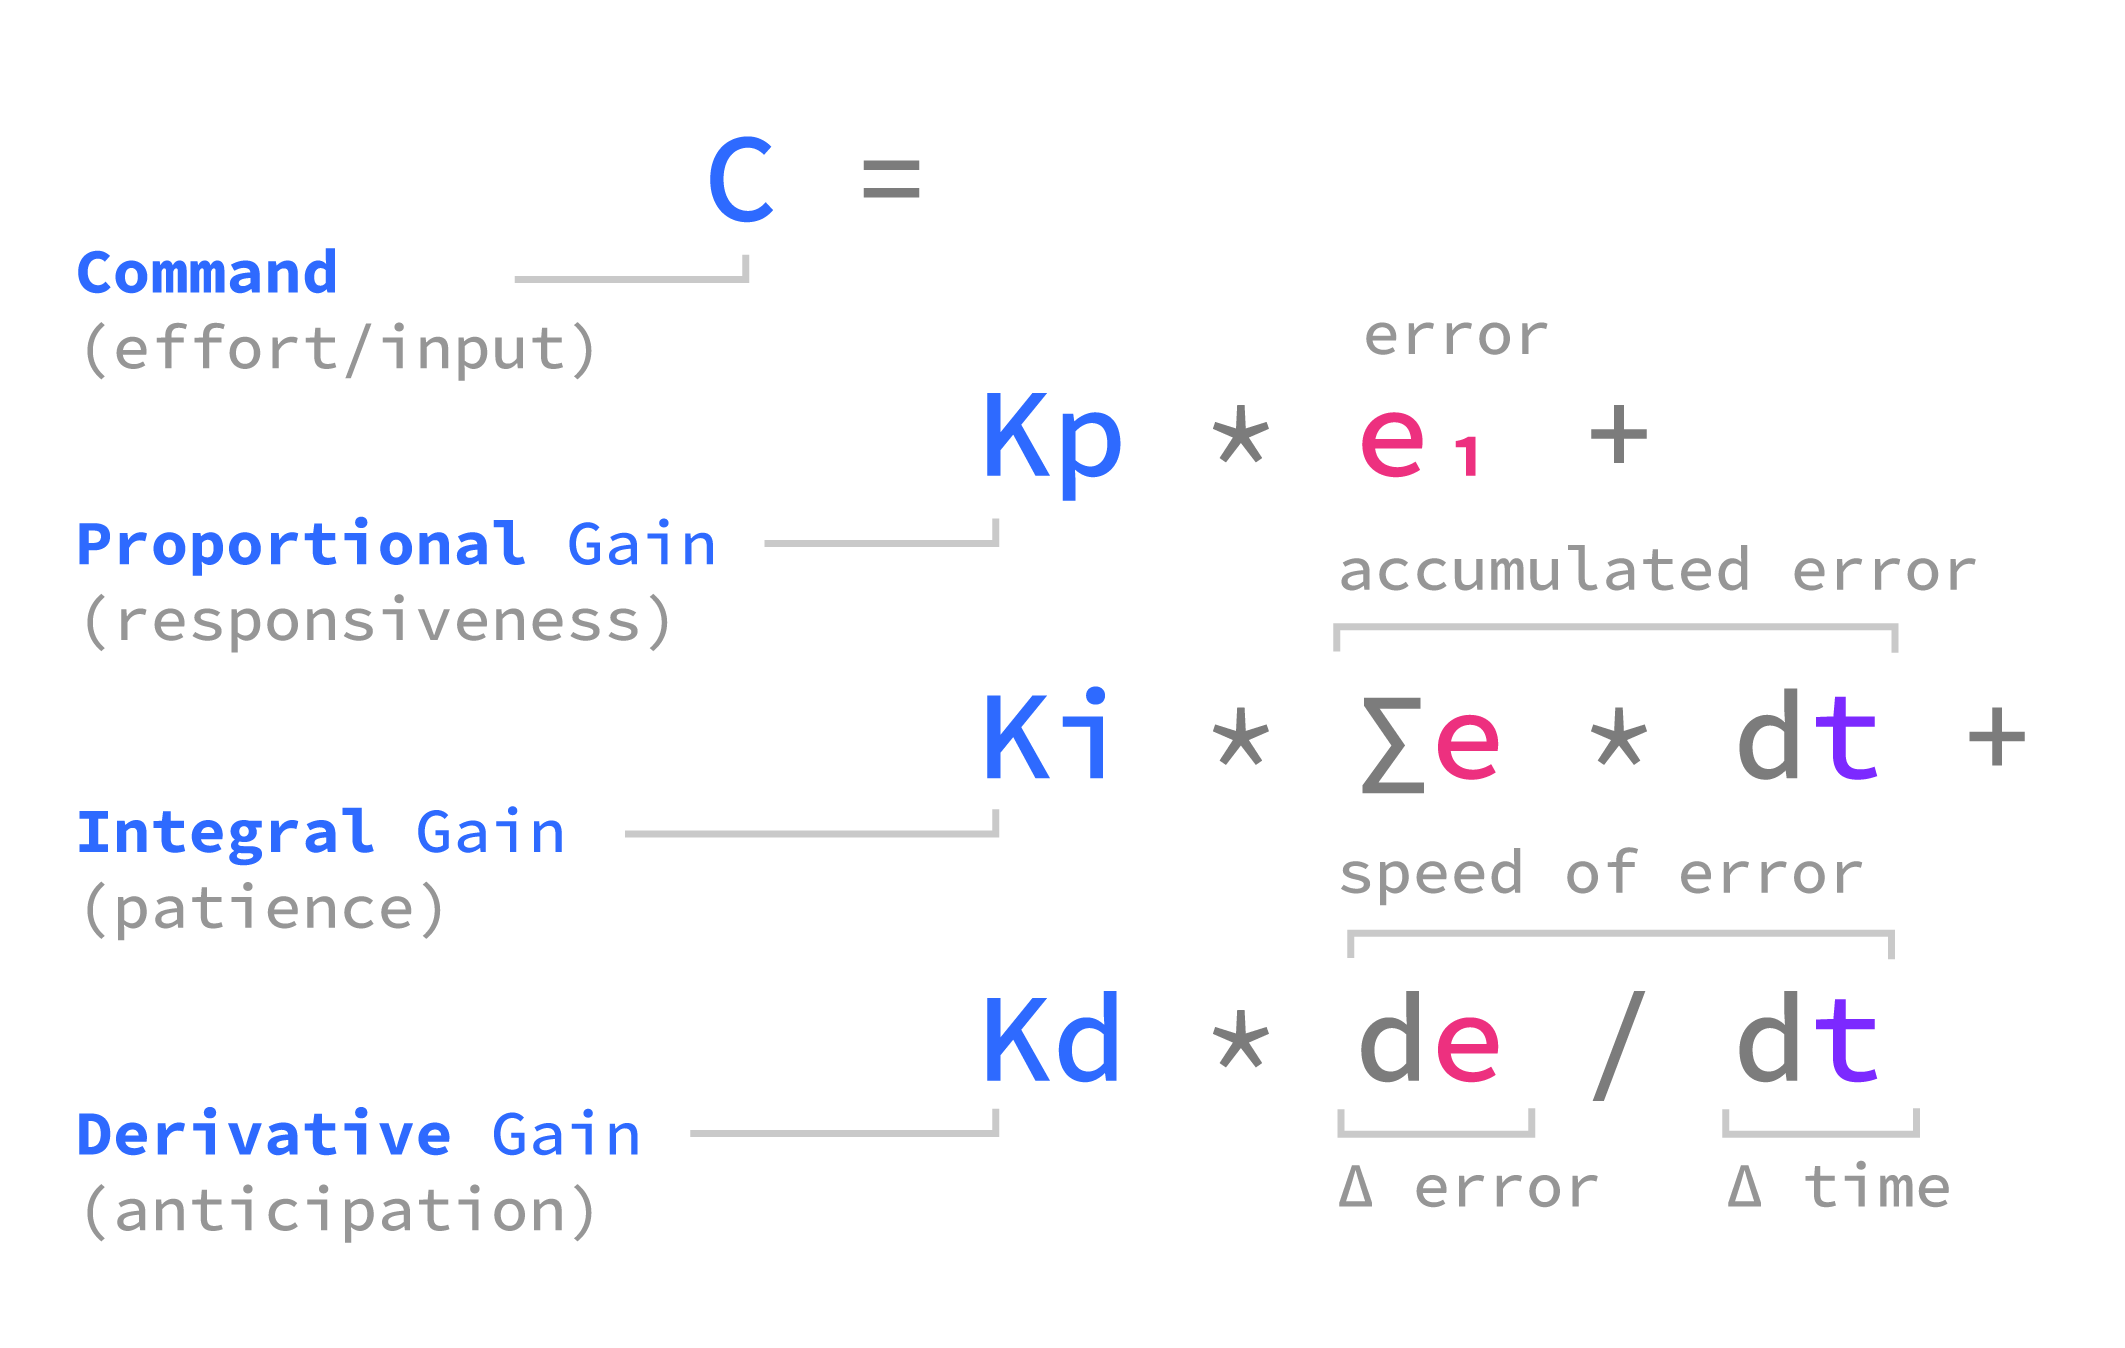
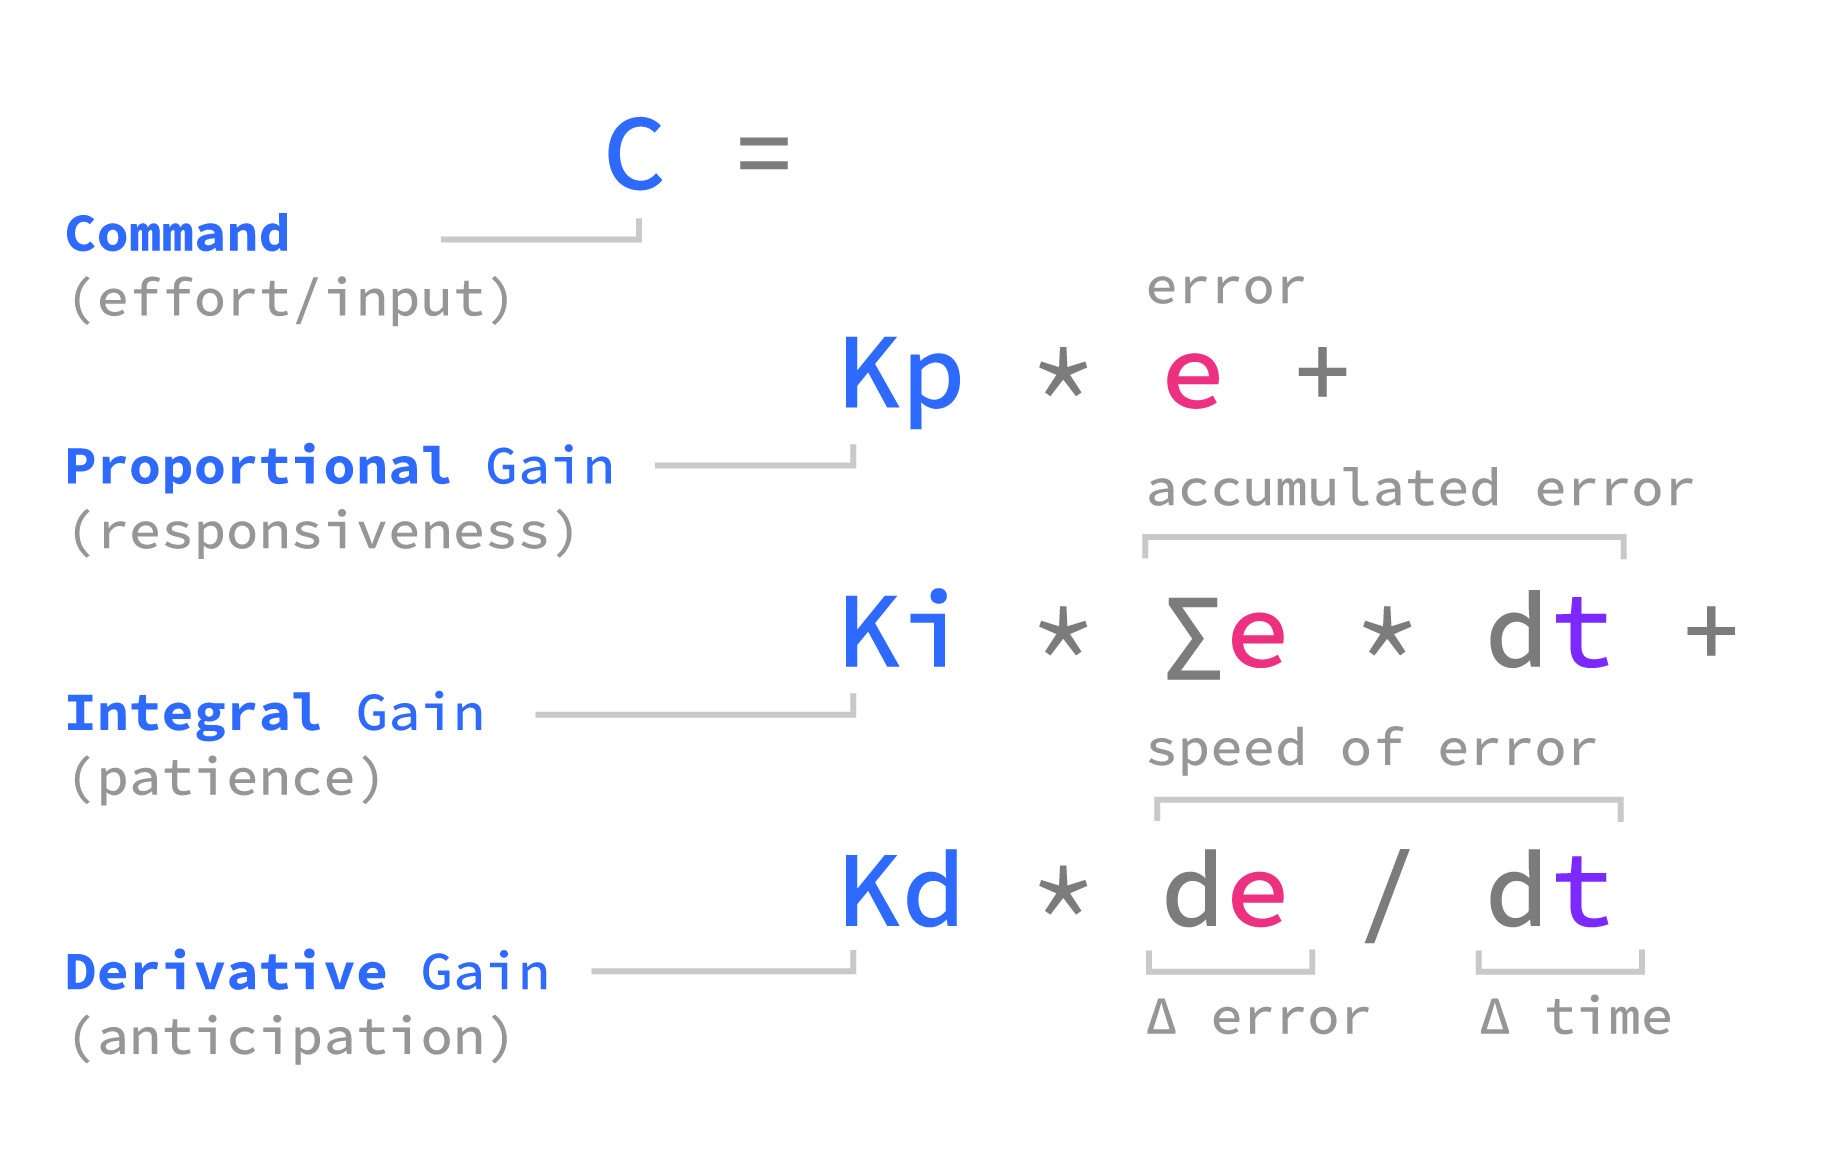
Minor edits to just-published article

diff --git a/src/articles/pid-control.md b/src/articles/pid-control.md
@@ -24,7 +24,7 @@ By the end of this article, you will be able to control a DC motor with a PID co
 
 `youtube:https://www.youtube.com/embed/azsj90bGa3w?si=cyy39zk6z0XiOCeT`
 
-If you are more of a visual learner, see the [presentation slides](https://docs.google.com/presentation/d/1MY7ZS5YL83aQoyHDS1kQtU45OQe2a02zv7njyi_CJF4/edit?usp=drive_link) I prepared.
+If you are more of a visual learner, see the [presentation slides](https://docs.google.com/presentation/d/1MY7ZS5YL83aQoyHDS1kQtU45OQe2a02zv7njyi_CJF4/edit?usp=drive_link).
 
 ## motivation
 
@@ -90,7 +90,7 @@ The [Atlas](https://robotsguide.com/robots/atlas2016) series of robots from Bost
 
 While PID controllers respond to changes without understanding the system they're controlling, MPC controllers use a model similar to the [Kalman Filter](https://www.01binary.us/articles/kalman-filter/).
 
-They run real-time physics simulation modeled by [Lagrangian Mechanics](https://www.amazon.com/Lagrangian-Mechanics-Non-Physicist-Modern-Physics/dp/B0CN7HMTJL) to determine how get the robot to the desired pose with the least effort.
+They run real-time physics simulation modeled by [Lagrangian Mechanics](https://www.amazon.com/Lagrangian-Mechanics-Non-Physicist-Modern-Physics/dp/B0CN7HMTJL) to determine how to get the robot to the desired pose with the least effort.
 
 ![Model Predictive Controls](./images/pid-model-predictive-control.png)
 
@@ -132,7 +132,7 @@ The `Kp`, `Ki`, and `Kd` weights applied to each term are called **gains**, and 
 
 ![PID controller terms](./images/pid-all-terms.png)
 
-The three terms are simply summed together, which is represented by ∑ at the right end of the diagram. This sum is called a *command* or an *input*.
+The three terms are simply summed together, which is represented by ∑ at the end of the diagram. This sum is called a *command* or an *input*.
 
 ### what is an error?
 
@@ -140,7 +140,7 @@ The *error* in PID controller equations is the difference between the **desired*
 
 > For example, the desired temperature in a room versus the current temperature, or the desired servo position and its current position.
 
-The ∑ at the left end of the diagram represents that the error is the goal (or *setpoint*) with the measurement subtracted from it.
+The ∑ at the start of the diagram represents that the error is the goal (or *setpoint*) with the measurement subtracted from it.
 
 ### proportional term
 
@@ -241,34 +241,47 @@ float pid(
 }
 ```
 
-PID controllers run on a *motor control board* at a specific frequency (number of times per second) measured in *hertz*. We can use an [Arduino](https://store-usa.arduino.cc/products/arduino-micro) for this:
+PID controllers run on a *motor control board* at a specific frequency (number of times per second) measured in *(kilo)hertz*. We can use an [Arduino](https://store-usa.arduino.cc/products/arduino-micro) for this:
 
 ```cpp
 //
 // Arduino Motor Control Board
 //
 
+#include <math.h>
+
 // PID control parameters
+const float FREQ_KHZ = 1.0;
 const float KP = 1.0;
 const float KI = 0.01;
 const float KD = 0.01;
 const float TOLERANCE = 0.01;
+const unsigned long TS = (unsigned long)(1000.0f / FREQ_KHZ + 0.5f);
 
 // PID control state
 float goal = 0.0;
 float lastError = 0.0;
-float integralError = 0.0;
-unsigned long lastTime = micros();
+unsigned long lastTime = 0;
+unsigned long nextTime = 0;
 
 void setup()
 {
   Serial.begin(9600);
+  lastTime = micros();
+  nextTime = lastTime + TS;
 }
 
 void loop()
 {
-  // Get time
+  // Scheduling
   unsigned long time = micros();
+
+  if ((long)(nextTime - time) > 0) {
+    delayMicroseconds((unsigned int)(nextTime - time));
+  }
+
+  time = micros();
+  nextTime += TS;
 
   // Receive goal position
   if (Serial.available())
@@ -282,11 +295,11 @@ void loop()
   // Calculate error
   float error = measurement - goal;
 
-  // Act until "close enough" to the goal
-  if (abs(error) > TOLERANCE)
+  // Calculate command
+  if (fabsf(error) > TOLERANCE)
   {
     // Calculate time step (difference in microseconds to seconds)
-    float timeStep = float(time - lastTime) / 1e-6f;
+    float timeStep = (float)(time - lastTime) * 1e-6f;
 
     // Calculate effort
     float command = pid(
@@ -302,7 +315,7 @@ void loop()
 }
 ```
 
-The code needed to read the encoder position and communicate with the motor driver is application-specific.
+The code needed to read the encoder position and communicate with the motor driver is application-specific, so it's not included in the listing.
 
 ## analysis
 
@@ -341,7 +354,7 @@ This makes the controller "live in the past" for a while, unable to adjust to it
 
 ![PID windup](./images/pid-windup.png)
 
-Fortunately there is a simple solution: clamping the integral gain by introducing two more parameters: `Imin` and `Imax`:
+Fortunately there is a simple solution to *windup*: clamping the integral gain by introducing two more parameters: `Imin` and `Imax`:
 
 ```c++
 integralError = clamp(integralError, Imin, Imax);
@@ -393,7 +406,7 @@ Plugging in PID gains manually is like tuning a guitar without a tuner: it's eas
 
 In this section we'll explore using Matlab [System Identification Toolbox](https://www.mathworks.com/products/sysid.html) to estimate a mathematical model for the system being controlled, and [Control System Toolbox](https://www.mathworks.com/products/control.html) to tune a PID controller automatically.
 
-> Why use Matlab? Precise PID tuning requires advanced techniques like identifying an [Autoregressive Exogenous](https://apmonitor.com/dde/index.php/Main/AutoRegressive) model, and calculating PID gains using [Frequency Response](https://www.youtube.com/watch?v=fq139cp1I6Y) analysis. Using wizards will get us immediate gratification and postpone treating these topics until later!
+> Why use Matlab? Precise PID tuning requires advanced techniques like identifying an [Autoregressive Exogenous](https://apmonitor.com/dde/index.php/Main/AutoRegressive) model, and calculating PID gains using [Frequency Response](https://www.youtube.com/watch?v=fq139cp1I6Y) analysis. Using wizards will let us get immediate gratification and postpone treating these topics until later!
 
 ### system identification
 
@@ -409,7 +422,7 @@ I built a [PID Tuner Web App](https://github.com/01binary/pidtuner) utility to f
 
 `youtube:https://www.youtube.com/embed/azsj90bGa3w?si=cyy39zk6z0XiOCeT`
 
-Prepare the **hardware** (a motor tuning fixture):
+Begin by preparing the **hardware** (a motor tuning fixture):
 
 + Connect an [Arduino board](https://store-usa.arduino.cc/products/arduino-mega-2560-rev3) to [motor driver](https://www.amazon.com/L6201P-Module-H-Bridge-Control-12V-48V/dp/B09N7L9TLB), [encoder](https://www.amazon.com/Magnetic-Encoder-Induction-Measurement-Precision/dp/B097QNG1CN/), and your computer.
 + Connect a [power supply](https://www.amazon.com/Adjustment-Quick-Charge-30V-10A-BLACK/dp/B09BFCF13Y) and a [motor](https://www.robotshop.com/search?q=DC%20motor) to the motor driver.
